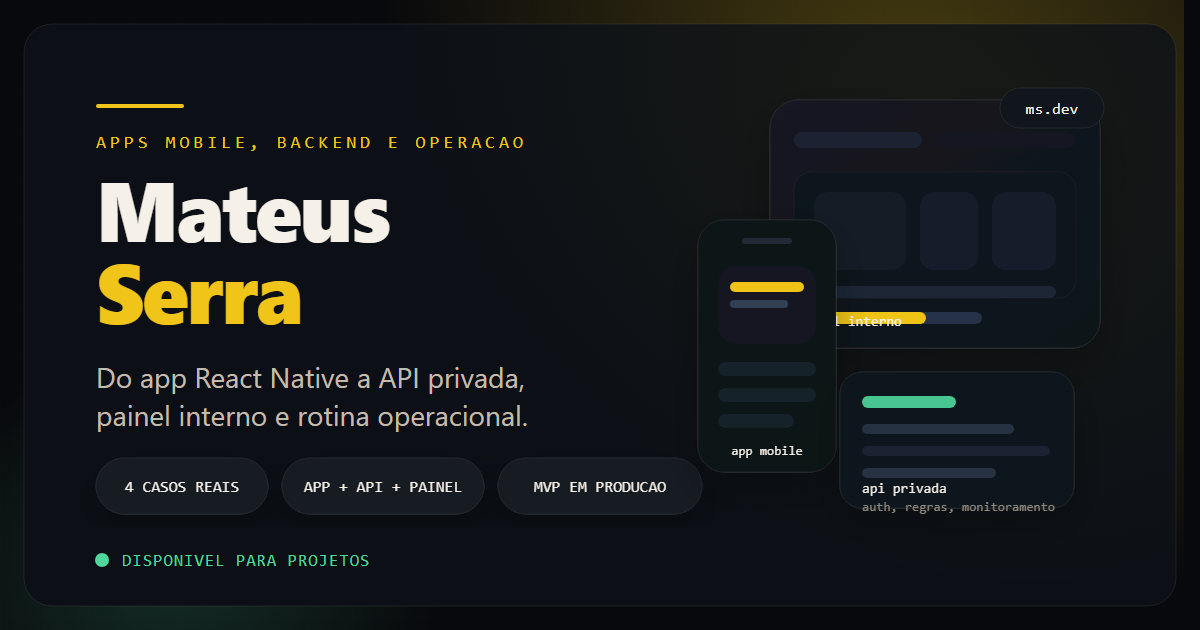
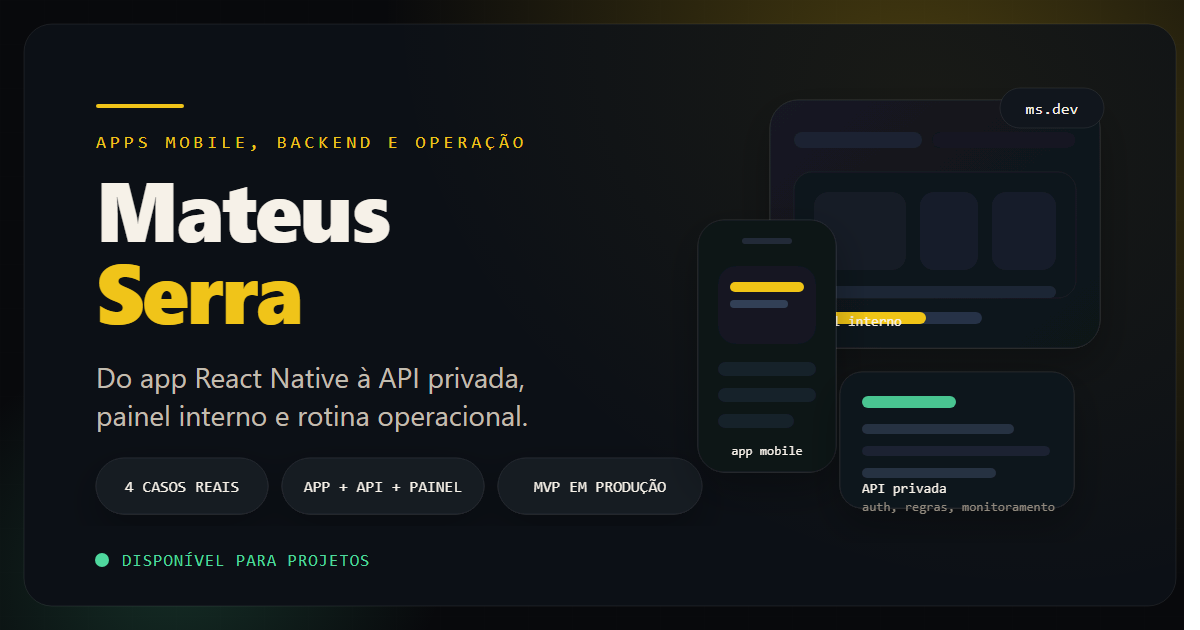
refatoração: atualizar conteúdo de texto e melhorar a acessibilidade em arquivos SVG e HTML

Changed region(s): [[0.9867, 0.0, 1.0, 1.0], [0.7092, 0.754, 0.74, 0.7841]]

diff --git a/index.html b/index.html
@@ -4,10 +4,10 @@
     <meta charset="UTF-8">
     <meta name="viewport" content="width=device-width, initial-scale=1.0">
 
-    <title>Mateus Serra | React Native, Backend e Produto em Producao</title>
-    <meta name="description" content="Portfolio de Mateus Serra, desenvolvedor de apps mobile, APIs privadas, paineis internos e operacao de produto em producao.">
+    <title>Mateus Serra | React Native, Backend e Produto em Produ&ccedil;&atilde;o</title>
+    <meta name="description" content="Portf&oacute;lio de Mateus Serra, desenvolvedor de apps mobile, APIs privadas, pain&eacute;is internos e opera&ccedil;&atilde;o de produto em produ&ccedil;&atilde;o.">
     <meta name="author" content="Mateus Serra">
-    <meta name="keywords" content="desenvolvedor, react native, python, flask, mobile, backend, portfolio">
+    <meta name="keywords" content="desenvolvedor, react native, python, flask, mobile, backend, portf&oacute;lio">
     <meta name="theme-color" content="#08090c">
     <link rel="canonical" href="https://ms-dev-portfolio.vercel.app/">
 
@@ -15,22 +15,22 @@
     <meta property="og:site_name" content="Mateus Serra">
     <meta property="og:locale" content="pt_BR">
     <meta property="og:url" content="https://ms-dev-portfolio.vercel.app/">
-    <meta property="og:title" content="Mateus Serra | React Native, Backend e Produto em Producao">
-    <meta property="og:description" content="Apps mobile, APIs privadas, paineis internos e automacao operacional para produtos que precisam sair do MVP e virar operacao.">
+    <meta property="og:title" content="Mateus Serra | React Native, Backend e Produto em Produ&ccedil;&atilde;o">
+    <meta property="og:description" content="Apps mobile, APIs privadas, pain&eacute;is internos e automa&ccedil;&atilde;o operacional para produtos que precisam sair do MVP e virar opera&ccedil;&atilde;o.">
     <meta property="og:image" content="https://ms-dev-portfolio.vercel.app/social-preview.png">
     <meta property="og:image:width" content="1200">
     <meta property="og:image:height" content="630">
     <meta property="og:image:type" content="image/png">
-    <meta property="og:image:alt" content="Card do portfolio de Mateus Serra com foco em app mobile, backend e operacao de produto.">
+    <meta property="og:image:alt" content="Card do portf&oacute;lio de Mateus Serra com foco em app mobile, backend e opera&ccedil;&atilde;o de produto.">
 
     <meta property="twitter:card" content="summary_large_image">
     <meta property="twitter:url" content="https://ms-dev-portfolio.vercel.app/">
-    <meta property="twitter:title" content="Mateus Serra | React Native, Backend e Produto em Producao">
-    <meta property="twitter:description" content="Apps mobile, APIs privadas, paineis internos e automacao operacional para produtos que precisam sair do MVP e virar operacao.">
+    <meta property="twitter:title" content="Mateus Serra | React Native, Backend e Produto em Produ&ccedil;&atilde;o">
+    <meta property="twitter:description" content="Apps mobile, APIs privadas, pain&eacute;is internos e automa&ccedil;&atilde;o operacional para produtos que precisam sair do MVP e virar opera&ccedil;&atilde;o.">
     <meta property="twitter:image" content="https://ms-dev-portfolio.vercel.app/social-preview.png">
-    <meta property="twitter:image:alt" content="Card do portfolio de Mateus Serra com foco em app mobile, backend e operacao de produto.">
+    <meta property="twitter:image:alt" content="Card do portf&oacute;lio de Mateus Serra com foco em app mobile, backend e opera&ccedil;&atilde;o de produto.">
 
-    <link rel="icon" type="image/svg+xml" href="favicon.svg">
+    <link rel="icon" type="image/svg+xml" href="favicon.svg?v=2">
     <link rel="preconnect" href="https://fonts.googleapis.com">
     <link rel="preconnect" href="https://fonts.gstatic.com" crossorigin>
     <link rel="preload" as="image" href="images/painel%20admin.png">
@@ -75,7 +75,7 @@
     <main>
         <section class="hero" id="hero">
             <div class="hero-copy">
-                <p class="hero-eyebrow fade-in">react native, backend e operacao de produto</p>
+                <p class="hero-eyebrow fade-in">react native, backend e opera&ccedil;&atilde;o de produto</p>
                 <h1 class="hero-name fade-in">Mateus<br><span>Serra</span></h1>
                 <p class="hero-role fade-in">// do app mobile &agrave; API, painel interno e rotina operacional</p>
                 <p class="hero-desc fade-in">
@@ -90,7 +90,7 @@
 
                 <div class="hero-fit fade-in">
                     <span>app mobile</span>
-                    <span>api privada</span>
+                    <span>API privada</span>
                     <span>painel interno</span>
                     <span>mvp em produ&ccedil;&atilde;o</span>
                 </div>
@@ -106,7 +106,7 @@
                 <div class="hero-visual-frame">
                     <img
                         src="images/painel admin.png"
-                        alt="Preview do painel administrativo do MotoTracker"
+                        alt="Pr&eacute;via do painel administrativo do MotoTracker"
                         loading="eager"
                         decoding="async"
                         fetchpriority="high"
@@ -141,7 +141,7 @@
                     </p>
 
                     <div class="project-highlights">
-                        <span>app + api + painel</span>
+                        <span>app + API + painel</span>
                         <span>autentica&ccedil;&atilde;o e billing</span>
                         <span>modo offline</span>
                         <span>notifica&ccedil;&otilde;es push</span>
@@ -196,7 +196,7 @@
                             loading="lazy"
                             decoding="async"
                         >
-                        <button type="button" class="project-badge" data-open-gallery="painel-admin">ampliar screenshot</button>
+                        <button type="button" class="project-badge" data-open-gallery="painel-admin">ampliar imagem</button>
                     </div>
 
                     <div class="project-content">
@@ -218,7 +218,7 @@
                         </div>
 
                         <div class="project-actions">
-                            <button type="button" class="project-link project-link-button" data-open-gallery="painel-admin">abrir preview</button>
+                            <button type="button" class="project-link project-link-button" data-open-gallery="painel-admin">abrir pr&eacute;via</button>
                             <a href="#contato" class="project-link ghost">quero um painel assim</a>
                         </div>
                     </div>
@@ -228,7 +228,7 @@
                     <div class="project-image">
                         <img
                             src="images/lj relatorios.png"
-                            alt="Sistema de Relatorios"
+                            alt="Sistema de Relat&oacute;rios"
                             class="project-shot"
                             data-open-gallery="sistema-relatorios"
                             loading="lazy"
@@ -272,7 +272,7 @@
                             loading="lazy"
                             decoding="async"
                         >
-                        <button type="button" class="project-badge" data-open-gallery="monitor-api">ampliar screenshot</button>
+                        <button type="button" class="project-badge" data-open-gallery="monitor-api">ampliar imagem</button>
                     </div>
 
                     <div class="project-content">
@@ -296,7 +296,7 @@
                         </div>
 
                         <div class="project-actions">
-                            <button type="button" class="project-link project-link-button" data-open-gallery="monitor-api">abrir preview</button>
+                            <button type="button" class="project-link project-link-button" data-open-gallery="monitor-api">abrir pr&eacute;via</button>
                             <a href="#contato" class="project-link ghost">quero um backend assim</a>
                         </div>
                     </div>
@@ -330,7 +330,7 @@
                 <div class="about-rail reveal">
                     <div class="about-panel">
                         <span class="about-panel-title">onde gero mais valor</span>
-                        <p>Apps mobile, APIs privadas, paineis internos e automa&ccedil;&atilde;o operacional.</p>
+                        <p>Apps mobile, APIs privadas, pain&eacute;is internos e automa&ccedil;&atilde;o operacional.</p>
                     </div>
 
                     <div class="about-panel">
@@ -388,7 +388,7 @@
                     <p class="skill-group-copy">Ferramentas para colocar o produto no ar e manter a rotina operacional funcionando.</p>
                     <ul class="skill-list">
                         <li>PostgreSQL, Redis, Docker, Render, Railway e GitHub Actions</li>
-                        <li>deploy, cron, monitoramento, paineis e automa&ccedil;&atilde;o de processos</li>
+                        <li>deploy, cron, monitoramento, pain&eacute;is e automa&ccedil;&atilde;o de processos</li>
                         <li>prova principal: sistema de relat&oacute;rios e monitoramento de APIs</li>
                     </ul>
                 </div>
@@ -464,7 +464,7 @@
             <button class="lightbox-close" type="button" aria-label="Fechar imagem">&times;</button>
             <button class="lightbox-arrow prev" type="button" aria-label="Imagem anterior">&#8249;</button>
             <img class="lightbox-image" id="lightbox-image" src="" alt="">
-            <button class="lightbox-arrow next" type="button" aria-label="Proxima imagem">&#8250;</button>
+            <button class="lightbox-arrow next" type="button" aria-label="Pr&oacute;xima imagem">&#8250;</button>
             <div class="lightbox-counter" id="lightbox-counter"></div>
         </div>
     </div>

diff --git a/generate-og-image.html b/generate-og-image.html
@@ -2,21 +2,21 @@
 <html lang="pt-BR">
 <head>
     <meta charset="UTF-8">
-    <title>Gerar Social Preview</title>
+    <title>Gerar Pr&eacute;via Social</title>
 </head>
 <body style="margin: 0; padding: 32px; background: #08090c; color: #f6f1e8; font-family: 'Segoe UI', Arial, sans-serif;">
-    <h1 style="margin: 0 0 12px; font-size: 28px;">Social preview do portfolio</h1>
+    <h1 style="margin: 0 0 12px; font-size: 28px;">Pr&eacute;via social do portf&oacute;lio</h1>
     <p style="margin: 0 0 24px; max-width: 720px; color: #c2bcaf;">
-        A fonte visual agora e <code>social-preview.svg</code>. O arquivo publicado nas metas e
-        <code>social-preview.png</code>, gerado a partir desse SVG para evitar problema de compatibilidade.
+        A fonte visual agora &eacute; <code>social-preview.svg</code>. O arquivo publicado nas metas &eacute;
+        <code>social-preview.png</code>, gerado a partir desse SVG para evitar problemas de compatibilidade.
     </p>
     <ol style="margin: 0 0 28px; padding-left: 20px; color: #c2bcaf;">
-        <li>Edite <code>social-preview.svg</code> quando quiser mudar a thumbnail social.</li>
+        <li>Edite <code>social-preview.svg</code> quando quiser mudar a miniatura social.</li>
         <li>Gere novamente <code>social-preview.png</code>.</li>
         <li>Publique para renovar a miniatura ao compartilhar o link.</li>
     </ol>
     <div style="border: 1px solid rgba(255,255,255,0.08); border-radius: 20px; overflow: hidden; max-width: 1200px;">
-        <img src="social-preview.svg" alt="Preview social do portfolio" style="display: block; width: 100%; height: auto;">
+        <img src="social-preview.svg" alt="Pr&eacute;via social do portf&oacute;lio" style="display: block; width: 100%; height: auto;">
     </div>
 </body>
 </html>

diff --git a/js/script.js b/js/script.js
@@ -29,15 +29,15 @@ const galleries = {
     "sistema-relatorios": [
         {
             src: "images/lj relatorios.png",
-            alt: "Sistema de Relatorios - visao geral"
+            alt: "Sistema de Relat\u00f3rios - vis\u00e3o geral"
         },
         {
             src: "images/tela enfermagem.png",
-            alt: "Sistema de Relatorios - tela de enfermagem"
+            alt: "Sistema de Relat\u00f3rios - tela de enfermagem"
         },
         {
             src: "images/meus relatorios.png",
-            alt: "Sistema de Relatorios - meus relatorios"
+            alt: "Sistema de Relat\u00f3rios - meus relat\u00f3rios"
         }
     ],
     "monitor-api": [
@@ -221,14 +221,14 @@ async function handleSubmit(event) {
         }
 
         form.reset();
-        statusMessage.textContent = "Mensagem enviada. Retorno em ate 24h.";
+        statusMessage.textContent = "Mensagem enviada. Retorno em at\u00e9 24h.";
         statusMessage.classList.add("success");
     } catch (error) {
-        statusMessage.textContent = "Nao consegui enviar agora. Tente novamente ou use o email direto.";
+        statusMessage.textContent = "N\u00e3o consegui enviar agora. Tente novamente ou use o e-mail direto.";
         statusMessage.classList.add("error");
     } finally {
         submitButton.disabled = false;
-        submitButton.textContent = "enviar mensagem";
+        submitButton.textContent = "enviar briefing";
     }
 }
 
